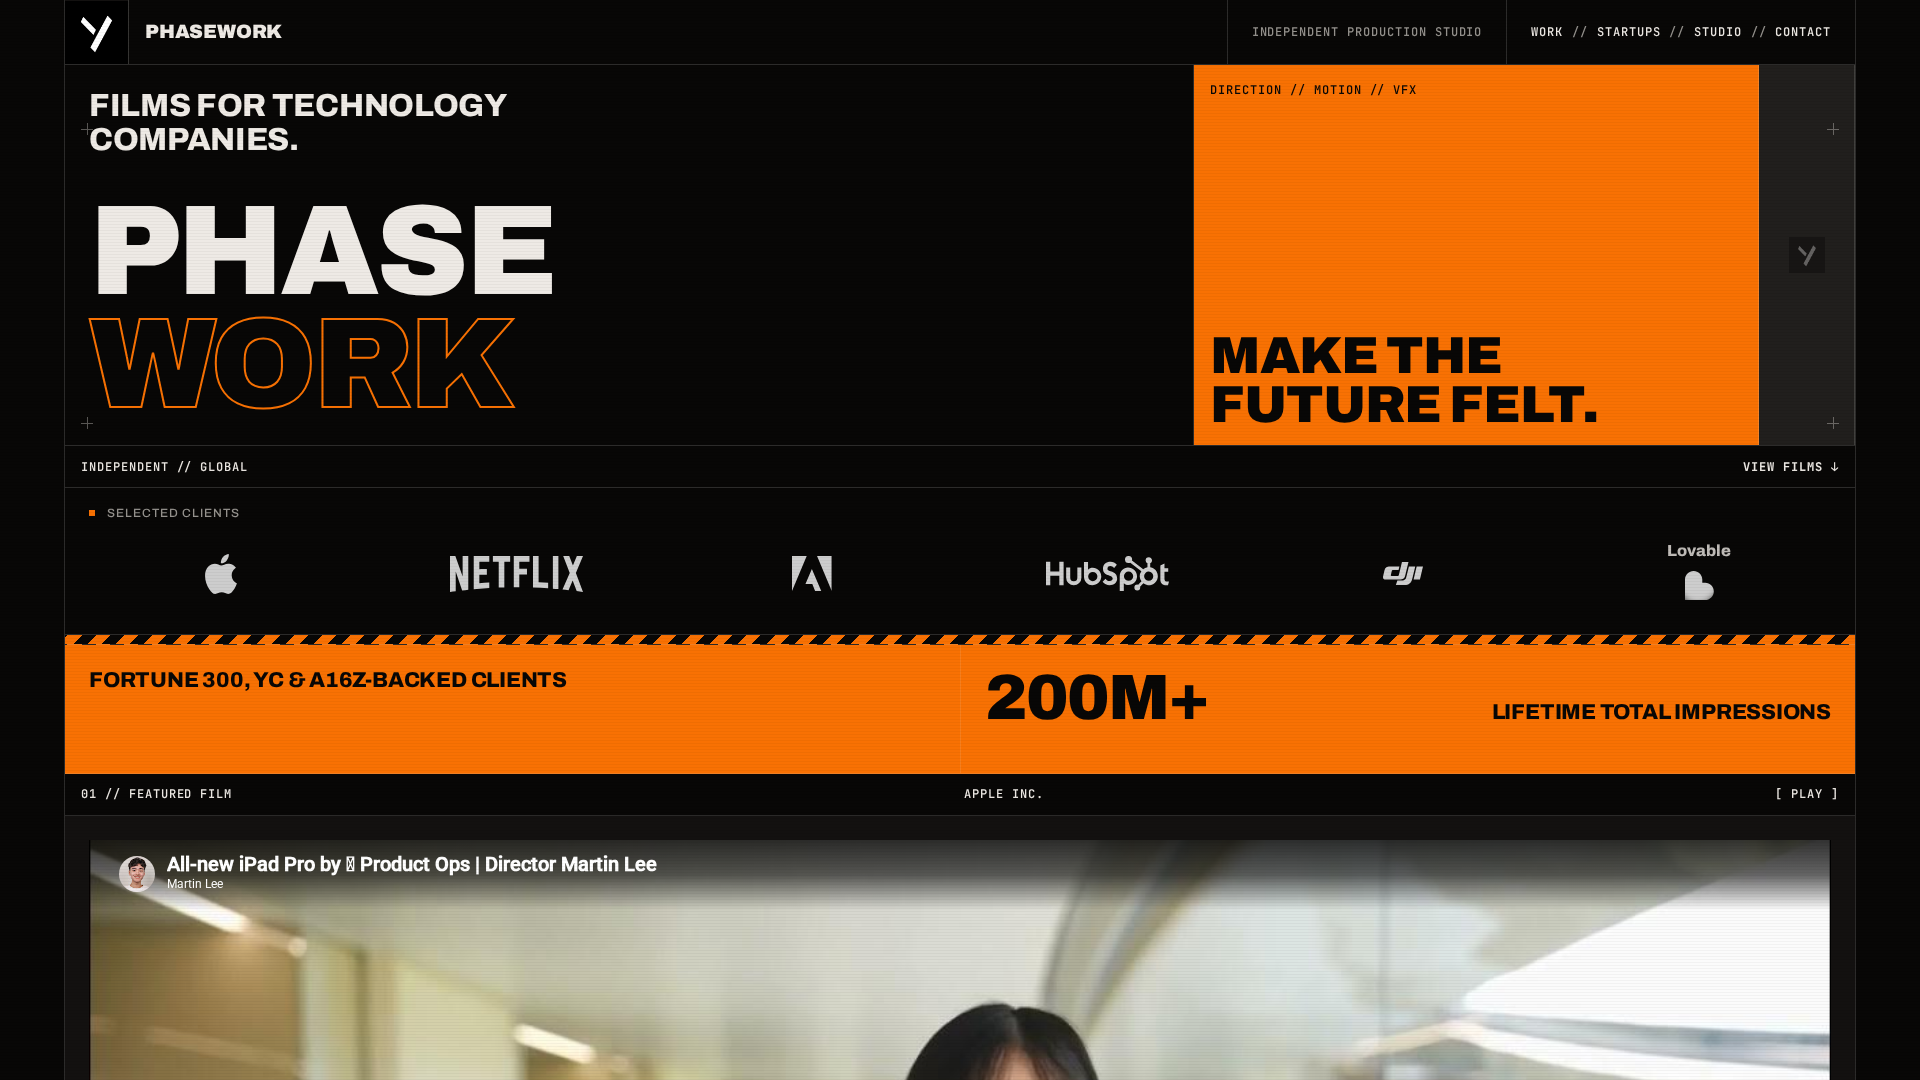
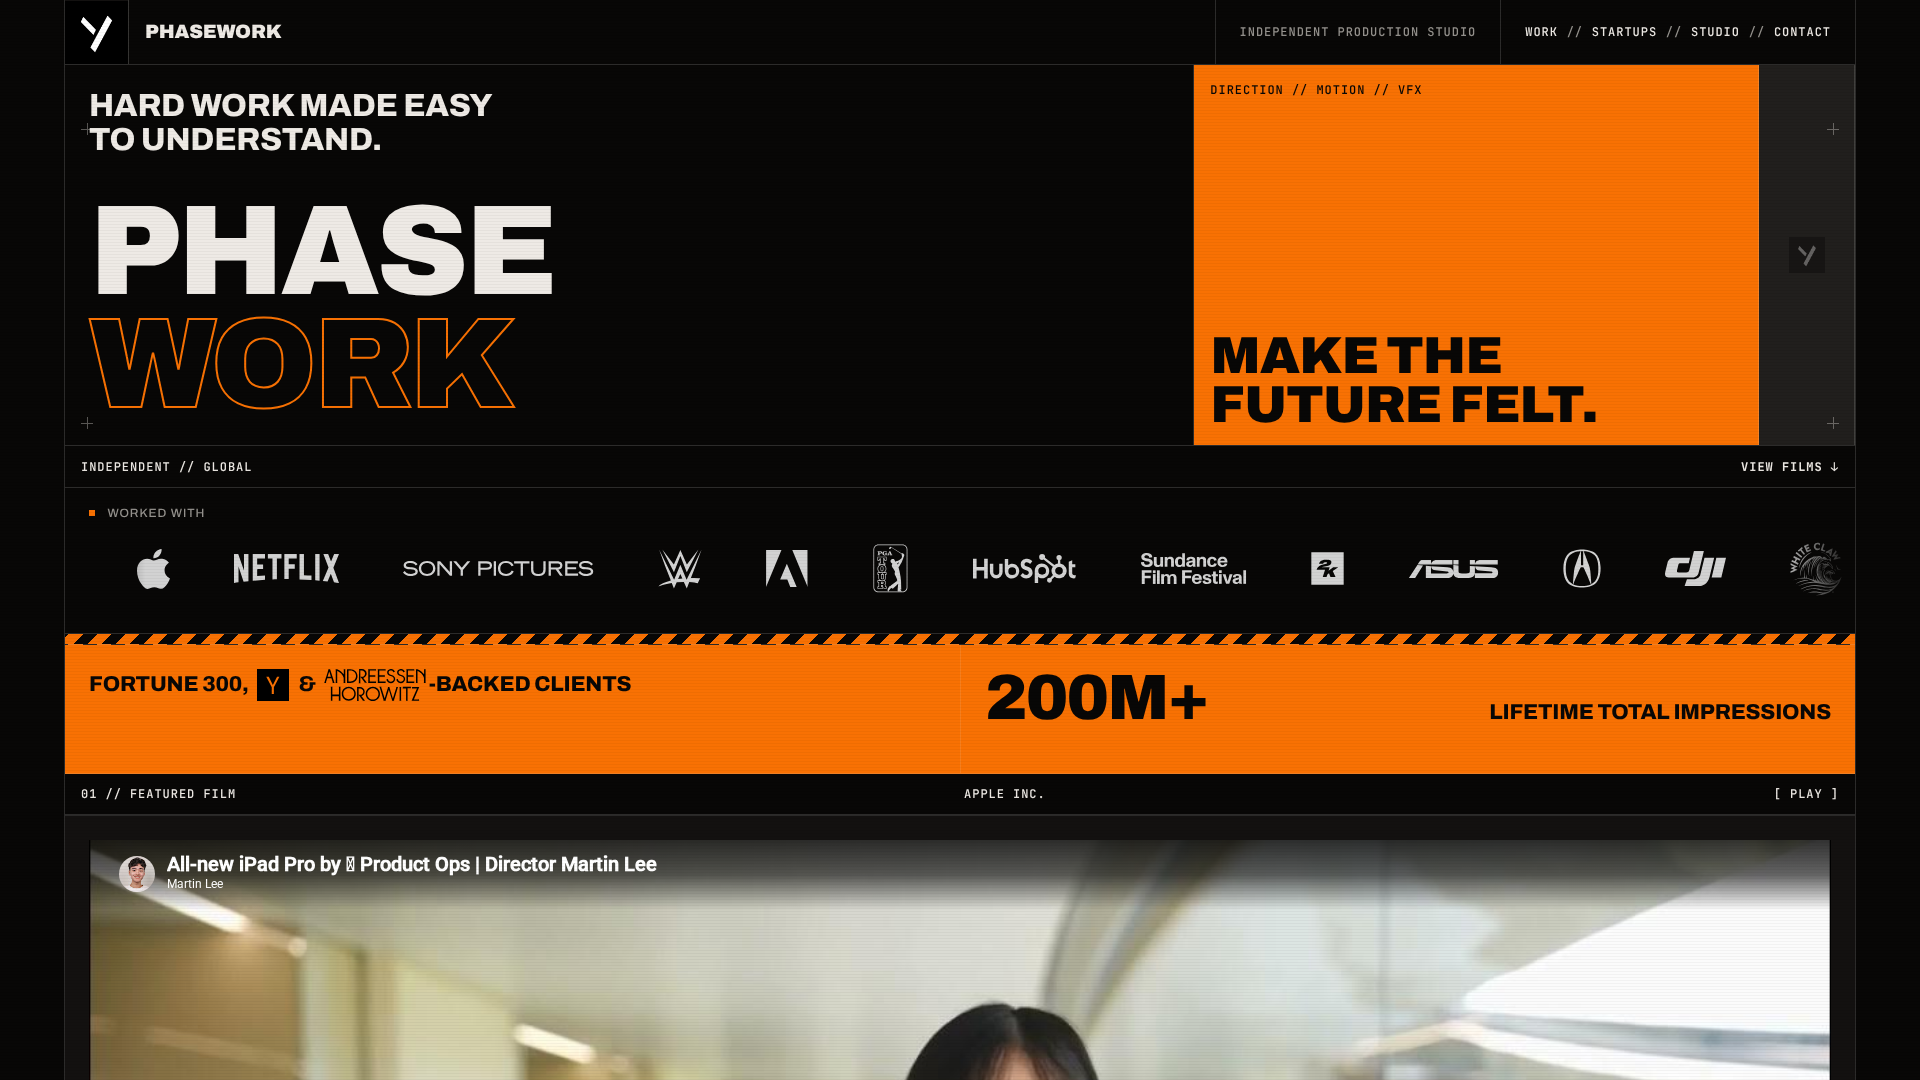
Update page title and link-preview image to the new headline
- <title>, og:title, twitter:title: "Phasework — Hard Work Made Easy to Understand"
- og-image.png regenerated from the current home page (new kicker,
  15-logo strip); og/twitter image URL gets ?v=2 so previews refresh

Claude-Session: https://claude.ai/code/session_01ETs51qraTMZKyzzXWZMwnK

diff --git a/src/routes/index.tsx b/src/routes/index.tsx
@@ -99,19 +99,19 @@ export const Route = createFileRoute("/")({
   staticData: { sitemap: true },
   head: () => ({
     meta: [
-      { title: "Phasework — Films for Technology Companies" },
+      { title: "Phasework — Hard Work Made Easy to Understand" },
       {
         name: "description",
         content: "Phasework directs cinematic launch films, brand stories, VFX, and motion for technology companies.",
       },
-      { property: "og:title", content: "Phasework — Films for Technology Companies" },
+      { property: "og:title", content: "Phasework — Hard Work Made Easy to Understand" },
       {
         property: "og:description",
         content: "An independent production studio making technology clear, cinematic, and worth watching.",
       },
       { property: "og:type", content: "website" },
       { name: "twitter:card", content: "summary_large_image" },
-      { name: "twitter:title", content: "Phasework — Films for Technology Companies" },
+      { name: "twitter:title", content: "Phasework — Hard Work Made Easy to Understand" },
       {
         name: "twitter:description",
         content: "An independent production studio making technology clear, cinematic, and worth watching.",

diff --git a/src/routes/__root.tsx b/src/routes/__root.tsx
@@ -85,8 +85,8 @@ export const Route = createRootRouteWithContext<{ queryClient: QueryClient }>()(
       { property: "og:type", content: "website" },
       { name: "twitter:card", content: "summary_large_image" },
       // Share-preview image (previously injected by Lovable hosting; now self-hosted in /public).
-      { property: "og:image", content: "https://phasework.work/og-image.png" },
-      { name: "twitter:image", content: "https://phasework.work/og-image.png" },
+      { property: "og:image", content: "https://phasework.work/og-image.png?v=2" },
+      { name: "twitter:image", content: "https://phasework.work/og-image.png?v=2" },
     ],
     links: [
       {
